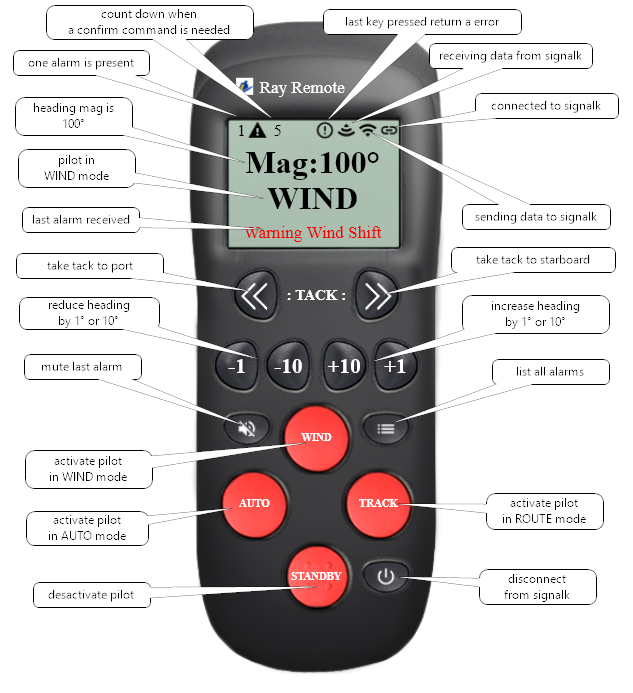
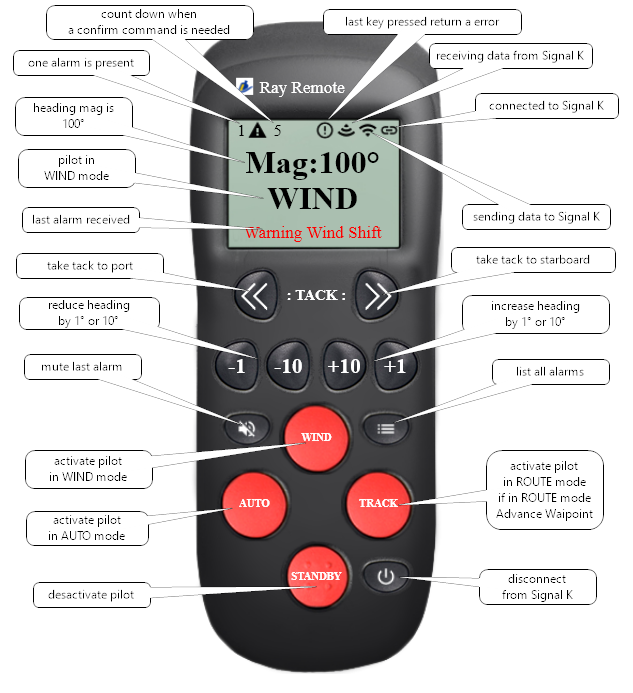
feature: add advanceWaypoint in GUI (#7)

diff --git a/public/js/rayremote.js b/public/js/rayremote.js
@@ -23,7 +23,8 @@ const commands = {
   "-1":      '{"action":"changeHeadingByKey","value":"-1"}',
   "-10":     '{"action":"changeHeadingByKey","value":"-10"}',
   "tackToPort":   '{"action":"tackTo","value":"port"}',
-  "tackToStarboard":   '{"action":"tackTo","value":"starboard"}'
+  "tackToStarboard":   '{"action":"tackTo","value":"starboard"}',
+  "advanceWaypoint":   '{"action":"advanceWaypoint"}'
 }
 
 var notificationsArray = {};
@@ -38,14 +39,14 @@ var handlePilotStatusTimeout = null;
 var handleHeadindValueTimeout = null;
 var handleReceiveTimeout = null;
 var handleSilenceScreenTimeout = null;
-var handleConfirmTackTimeout = null;
+var handleConfirmActionTimeout = null;
 var handleCountDownCounterTimeout = null;
 var connected = false;
 var reconnect = true;
 const timeoutReconnect = 2000;
 const timeoutValue = 2000;
 const timeoutBlink = 500;
-//const noDataMessage = 'NO DATA';
+const countDownDefault = 5;
 const noDataMessage = '-- -- -- --';
 var pilotStatusDiv = undefined;
 var headingValueDiv = undefined;
@@ -60,10 +61,11 @@ var notificationCounterDiv = undefined;
 var notificationCounterTextDiv = undefined;
 var silenceScreenDiv = undefined;
 var silenceScreenText = undefined;
-var tackScreenDiv = undefined;
+var confirmScreenDiv = undefined;
 var skPathToAck = '';
-var tackConfirmed = false;
+var actionToBeConfirmed = '';
 var countDownValue = 0;
+var pilotStatus = '';
 
 var startUpRayRemote = function() {
   pilotStatusDiv = document.getElementById('pilotStatus');
@@ -78,7 +80,7 @@ var startUpRayRemote = function() {
   notificationCounterTextDiv = document.getElementById('notificationCounterText');
   silenceScreenDiv = document.getElementById('silenceScreen');
   silenceScreenTextDiv = document.getElementById('silenceScreenText');
-  tackScreenDiv = document.getElementById('tackScreen');
+  confirmScreenDiv = document.getElementById('confirmScreen');
   countDownCounterDiv = document.getElementById('countDownCounter');
   setPilotStatus(noDataMessage);
   setHeadindValue(noDataMessage);
@@ -100,31 +102,38 @@ var demo = function () {
   setNotificationMessage({"path":"notifications.autopilot.PilotWarningWindShift","value":{"state":"alarm","message":"Pilot Warning Wind Shift"}});
   powerOffIconDiv.style.visibility = 'hidden';
   powerOnIconDiv.style.visibility = 'visible';
-  countDownCounterDiv.innerHTML = '5';
+  countDownCounterDiv.innerHTML = countDownDefault.toString();
 }
 
 var buildAndSendCommand = function(cmd) {
   var cmdJson = commands[cmd];
-  if (((cmd === 'tackToPort')||(cmd === 'tackToStarboard')) && (tackConfirmed === false)) {
+  if (typeof cmdJson === 'undefined') {
+    alert('Unknown command !');
+    return null;
+  }
+  if ((actionToBeConfirmed !== '')&&(actionToBeConfirmed !== cmd)) {
+    clearConfirmCmd();
+  }
+  if (((cmd === 'tackToPort')||(cmd === 'tackToStarboard'))&&(actionToBeConfirmed === '')) {
     confirmTack(cmd);
     return null;
   }
-  if (typeof cmdJson !== 'undefined') {
-    if ((cmd === 'tackToPort')||(cmd === 'tackToStarboard')) {
-      countDownValue = 0;
-      updateCountDownCounter();
-      sendCommand(commands['auto']);
-    }
-    sendCommand(cmdJson);
-  } else {
-      alert('Unknown command !')
-    }
-  if (tackConfirmed) {
-    clearTimeout(handleConfirmTackTimeout);
-    tackScreenDiv.style.visibility = 'hidden';
-    tackScreenDiv.innerHTML = '';
-    tackConfirmed = false;
+  if ((cmd === 'route')&&(pilotStatus === 'route')&&(actionToBeConfirmed === '')) {
+    confirmAdvanceWaypoint(cmd);
+    return null;
   }
+  if (actionToBeConfirmed === cmd) {
+    clearConfirmCmd();
+    if ((cmd === 'tackToPort')||(cmd === 'tackToStarboard')) {
+      sendCommand(commands['auto']); // force mode 'auto' to take a tack
+      sendCommand(cmdJson);
+    }
+    if ((cmd === 'route')&&(pilotStatus === 'route')) {
+      sendCommand(commands['advanceWaypoint']);
+    }
+    return null;
+  }
+  sendCommand(cmdJson);
 }
 
 var sendCommand = function(cmdJson) {
@@ -168,7 +177,7 @@ var notificationToValue = function (skPathToAck) {
 var sendSilence = function() {
   if (silenceScreenDiv.style.visibility !== 'visible') {
     silenceScreenDiv.style.visibility = 'visible';
-    autoHhideSilenceScreen();
+    autoHideSilenceScreen();
     if ((Object.keys(notificationsArray).length > 0) && (skPathToAck === '')) {
       skPathToAck = Object.keys(notificationsArray)[0];
     }
@@ -184,7 +193,7 @@ var sendSilence = function() {
 }
 
 var notificationScroll = function() {
-  autoHhideSilenceScreen();
+  autoHideSilenceScreen();
   if (silenceScreenDiv.style.visibility !== 'visible') {
     silenceScreenDiv.style.visibility = 'visible';
     if ((Object.keys(notificationsArray).length > 0) && (skPathToAck === '')) {
@@ -196,8 +205,8 @@ var notificationScroll = function() {
   silenceScreenTextDiv.innerHTML = notificationToValue(skPathToAck);
 }
 
-var autoHhideSilenceScreen = function() {
-  countDownValue = 5;
+var autoHideSilenceScreen = function() {
+  countDownValue = countDownDefault;
   updateCountDownCounter();
   clearTimeout(handleSilenceScreenTimeout);
   handleSilenceScreenTimeout = setTimeout(() => {
@@ -227,26 +236,47 @@ var getNextNotification = function(skPath) {
 
 var confirmTack = function(cmd) {
   var message = 'Repeat same key<br>to confirm<br>tack to ';
-  tackConfirmed = true;
   if (cmd === 'tackToPort') {
     message += 'port';
+    actionToBeConfirmed = cmd;
   } else if (cmd === 'tackToStarboard') {
       message += 'starboard';
+      actionToBeConfirmed = cmd;
     } else {
-        tackConfirmed = false;
+        actionToBeConfirmed = '';
         return null;
       }
-  countDownValue = 5;
-  updateCountDownCounter();
-  tackScreenDiv.innerHTML = '<p>' + message + '</p>';
-  tackScreenDiv.style.visibility = 'visible';
-  clearTimeout(handleConfirmTackTimeout);
-  handleConfirmTackTimeout = setTimeout(() => {
-    tackScreenDiv.style.visibility = 'hidden';
-    tackScreenDiv.innerHTML = '';
-    tackConfirmed = false;
-  }, 5000);
+  startConfirmCmd(cmd, message);
+}
 
+var confirmAdvanceWaypoint = function(cmd) {
+  var message = 'Repeat key TRACK<br>to confirm<br>Advance Waypoint';
+  startConfirmCmd(cmd, message);
+}
+
+var startConfirmCmd = function (cmd, message) {
+  countDownValue = countDownDefault;
+  actionToBeConfirmed = cmd;
+  updateCountDownCounter();
+  confirmScreenDiv.innerHTML = '<p>' + message + '</p>';
+  confirmScreenDiv.style.visibility = 'visible';
+  clearTimeout(handleConfirmActionTimeout);
+  handleConfirmActionTimeout = setTimeout(() => {
+    confirmScreenDiv.style.visibility = 'hidden';
+    confirmScreenDiv.innerHTML = '';
+    actionToBeConfirmed = '';
+  }, 5000);
+}
+
+var clearConfirmCmd = function () {
+  clearTimeout(handleConfirmActionTimeout);
+  clearTimeout(handleCountDownCounterTimeout);
+  countDownValue = -1;
+  countDownCounterDiv.innerHTML = '';
+  confirmScreenDiv.style.visibility = 'hidden';
+  confirmScreenDiv.innerHTML = '';
+  actionToBeConfirmed = '';
+  cmdConfirmed = false;
 }
 
 var wsConnect = function() {
@@ -353,6 +383,7 @@ var setPilotStatus = function(value) {
     value = noDataMessage;
   }
   pilotStatusDiv.innerHTML = value;
+  pilotStatus = value;
 }
 
 var setNotificationMessage = function(value) {
@@ -411,7 +442,8 @@ var cleanOnClosed = function() {
   notificationCounterTextDiv.innerHTML = '';
   notificationsArray = {};
   skPathToAck = '';
-  tackConfirmed = false;
+  actionToBeConfirmed = '';
+  pilotStatus = '';
   clearTimeout(handleHeadindValueTimeout);
   clearTimeout(handlePilotStatusTimeout);
   setPilotStatus('');

diff --git a/public/index.html b/public/index.html
@@ -46,7 +46,7 @@
         <div id="silenceScreenMute">&nbsp;Mute alarm press:</div>
         <div id="silenceScreenScroll">&nbsp;Next alarm press:</div>
       </div>
-      <div class="messageScreen" id="tackScreen"></div>
+      <div class="messageScreen" id="confirmScreen"></div>
       <div class="defaultKey btnLeftBlack" id="keyTackPort" onClick="buildAndSendCommand('tackToPort');" onTouchend="touchEnd(event)">
         <div class="defaultTextFontKey" id="keyTackPortText"></div>
       </div>

diff --git a/public/css/rayremote.css b/public/css/rayremote.css
@@ -259,7 +259,7 @@ html {
   text-align: left;
 }
 
-#tackScreen {
+#confirmScreen {
   text-align: center;
   font-weight: bold;
 }
